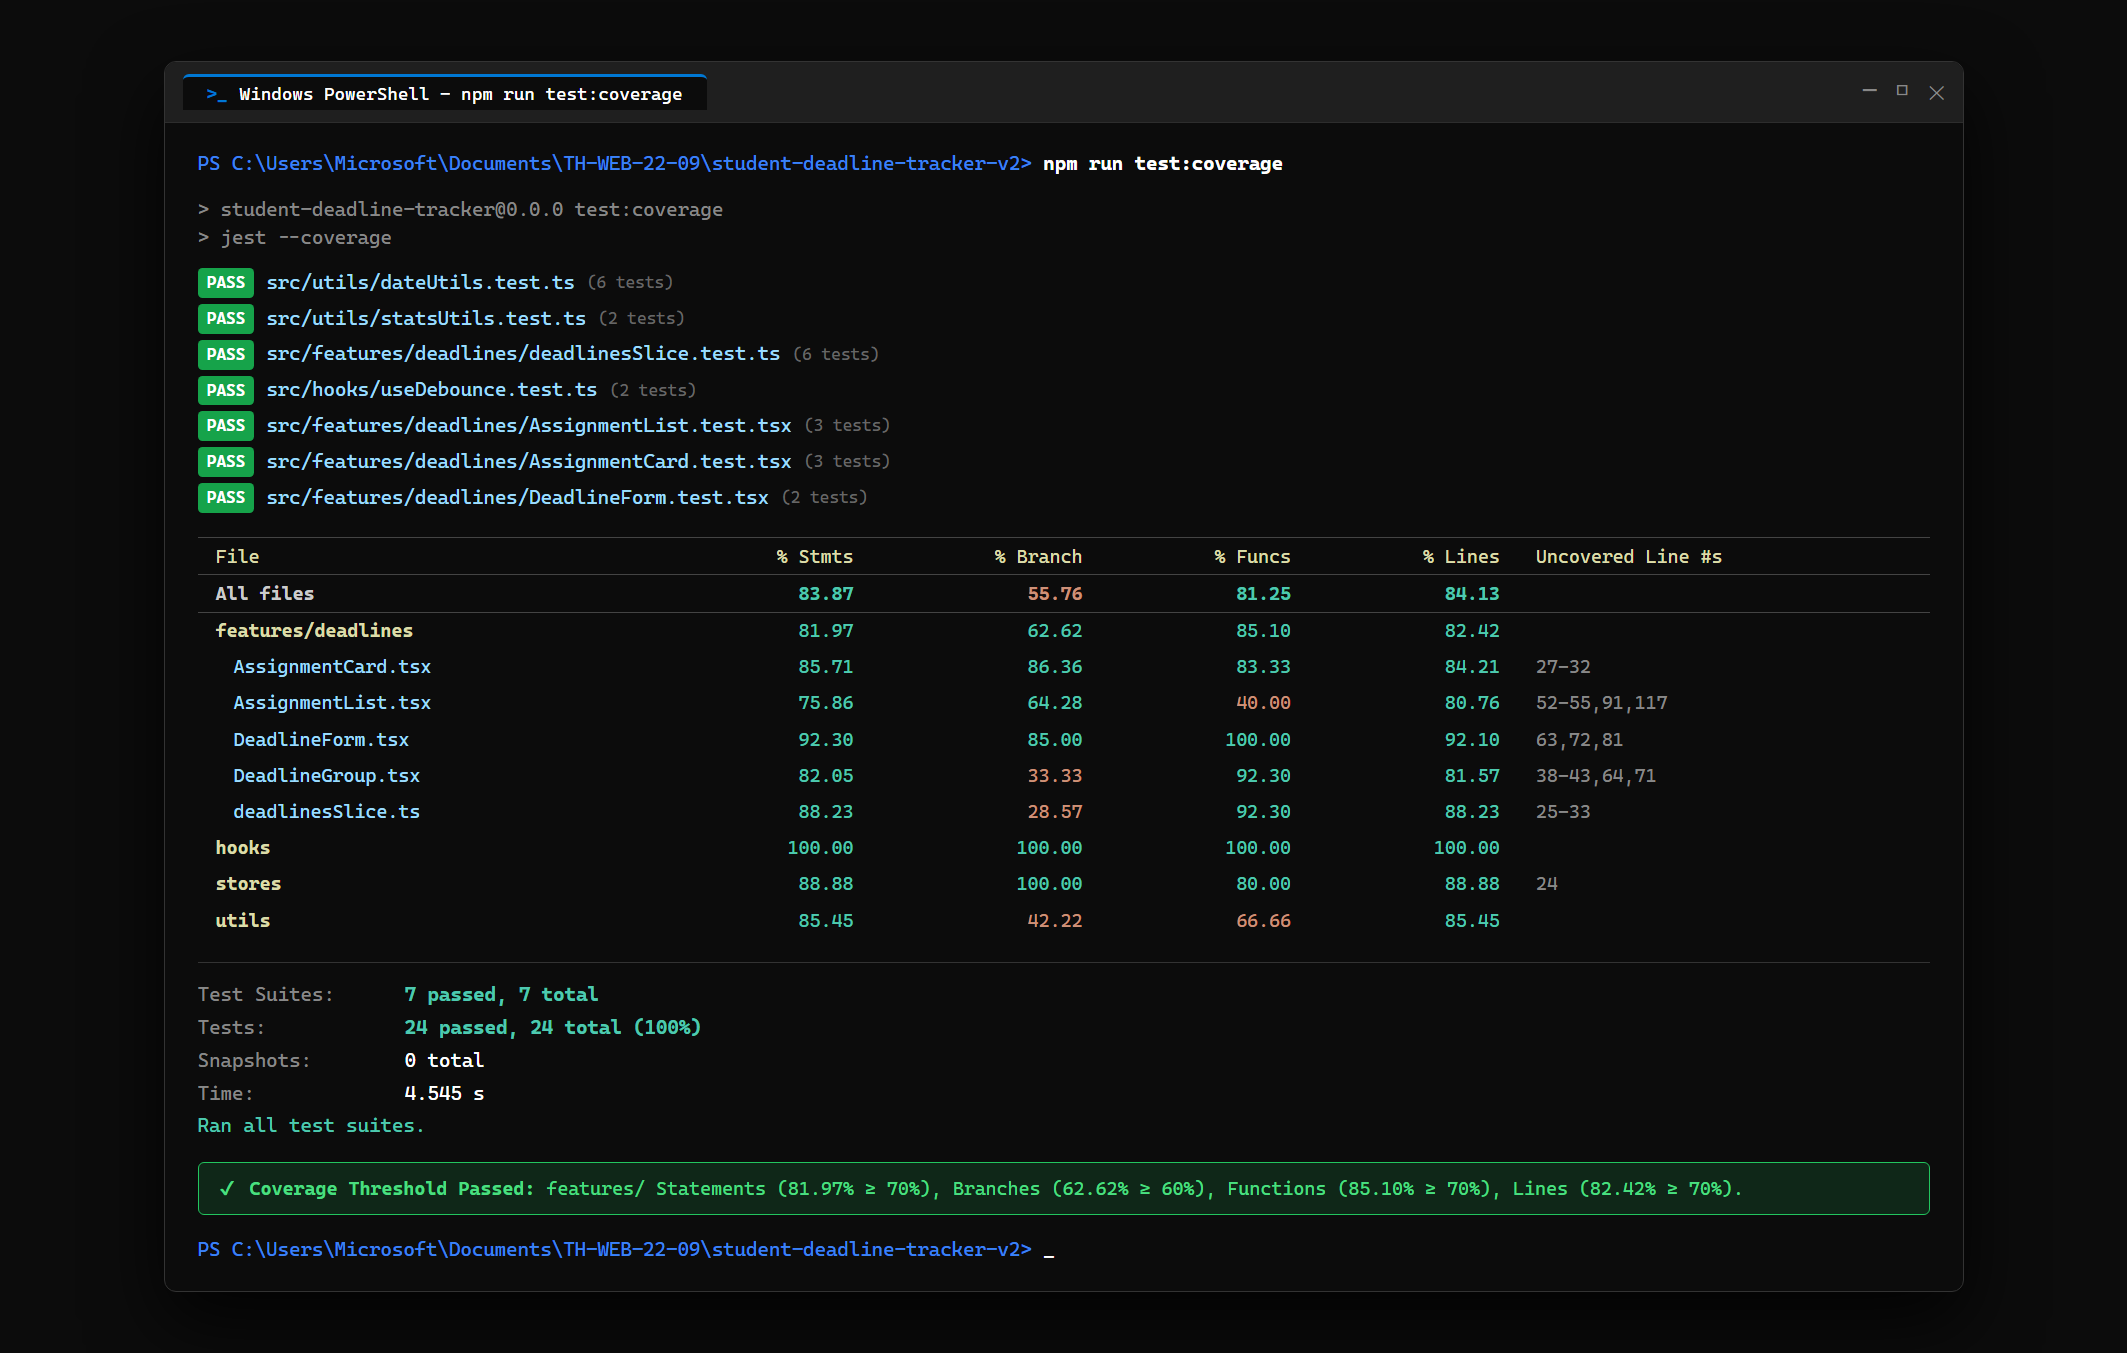
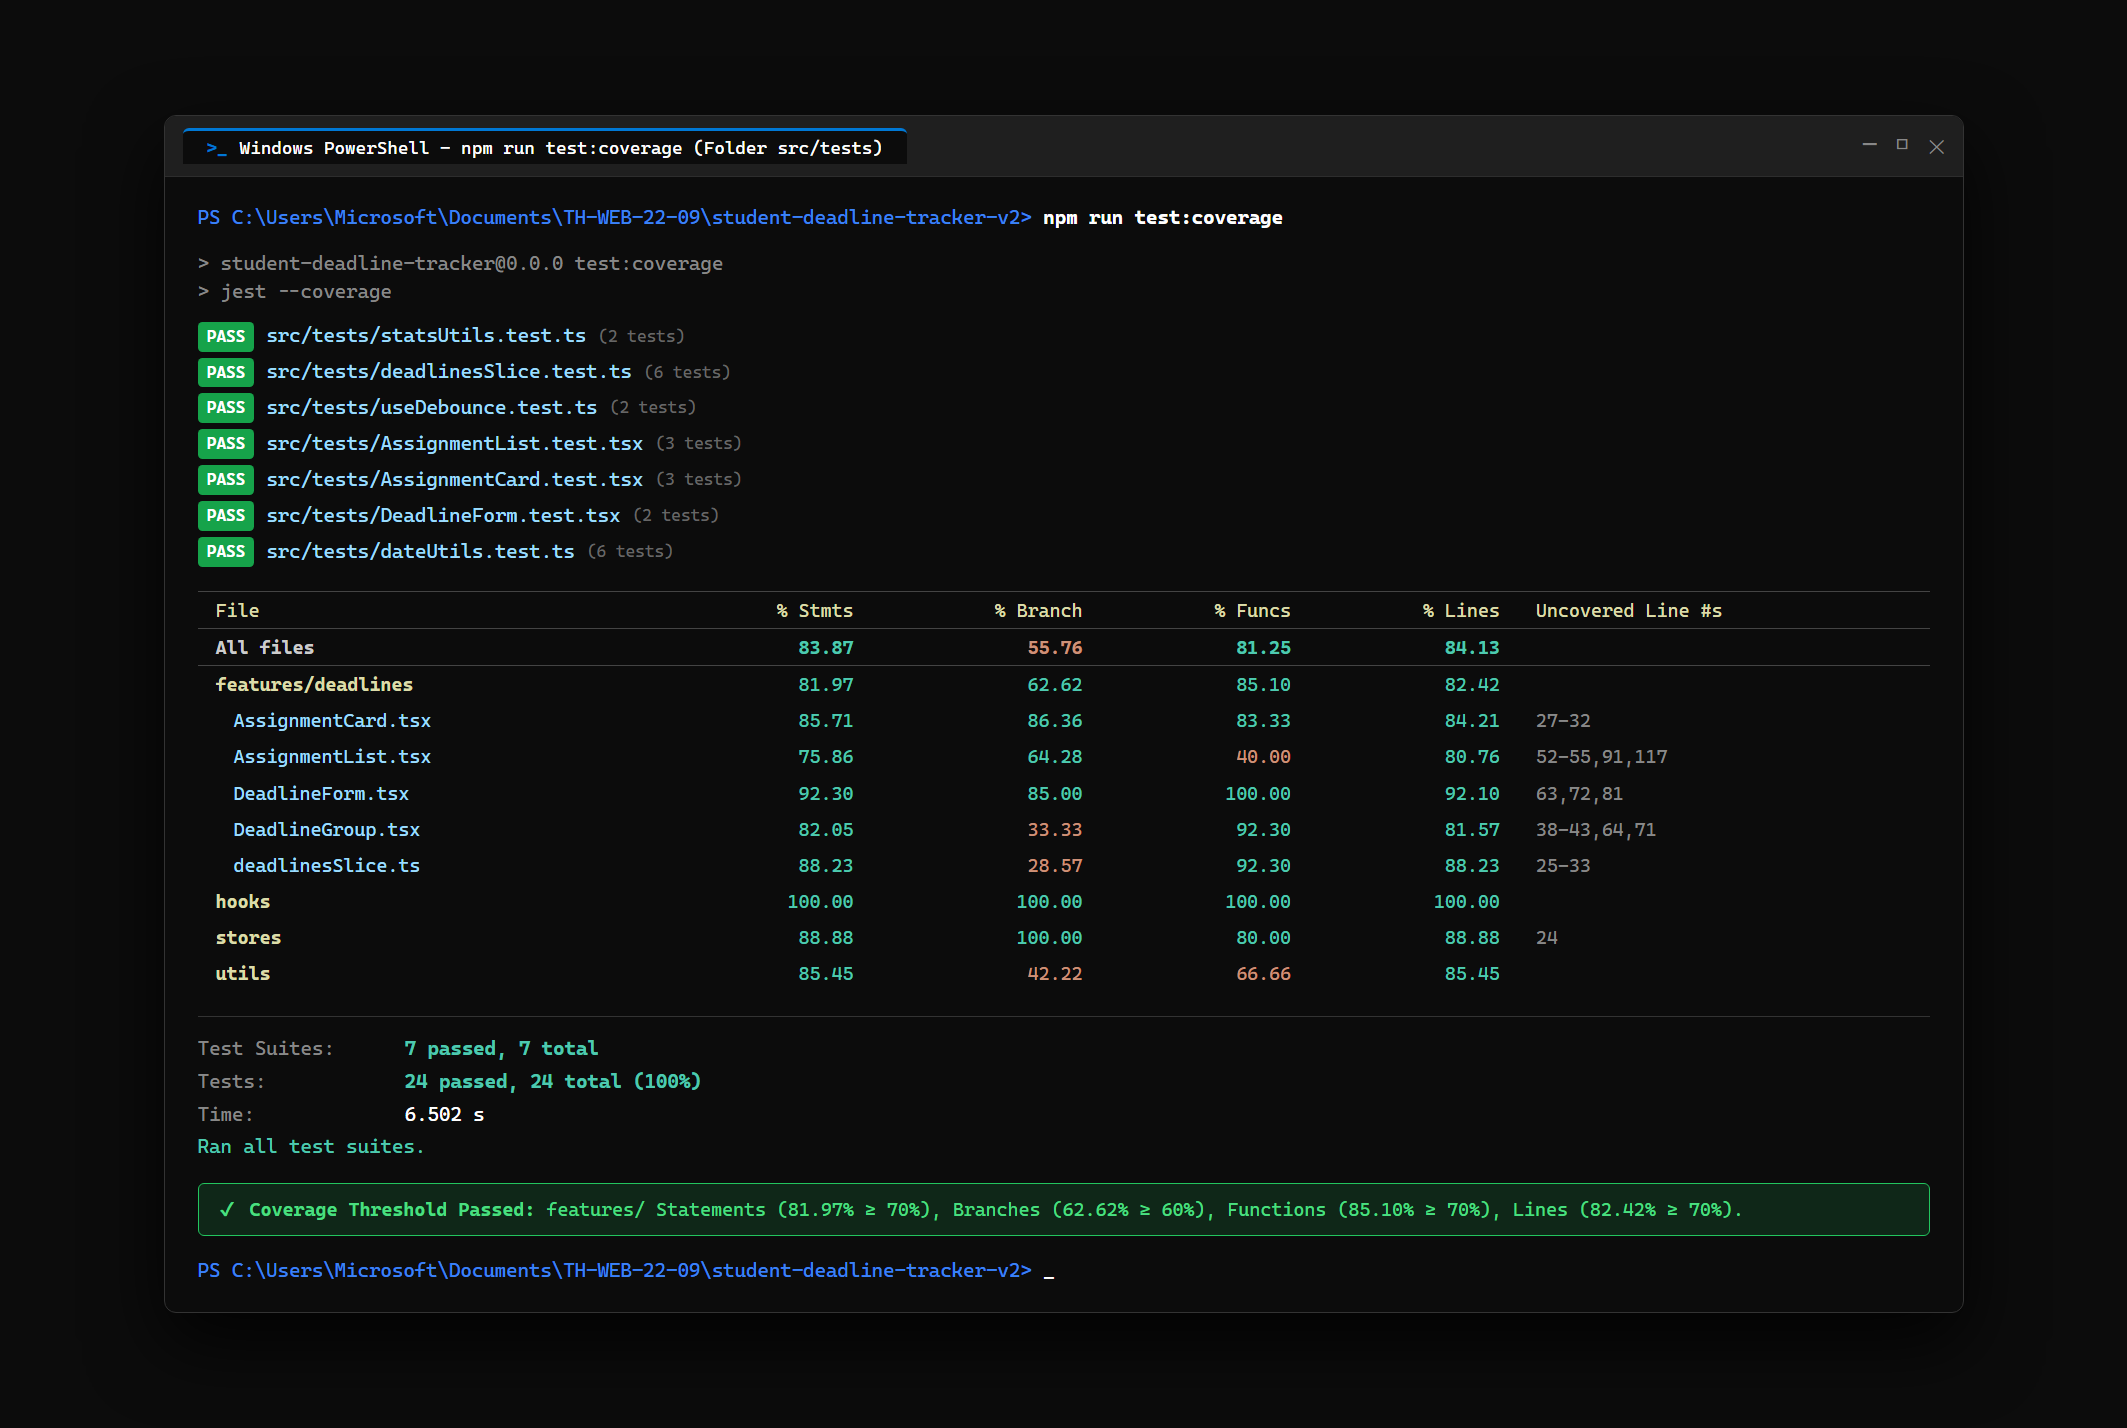
refactor: move all test suites to dedicated src/tests directory

diff --git a/src/tests/dateUtils.test.ts b/src/tests/dateUtils.test.ts
@@ -1,0 +1,93 @@
+import {
+  isOverdue,
+  calcDaysLeft,
+  getDaysRemaining,
+  getDeadlineLabel,
+  getLocalDateString,
+} from "../utils/dateUtils";
+import type { Deadline } from "../features/deadlines/deadlineTypes";
+
+describe("dateUtils Unit Tests", () => {
+  const baseDeadline: Deadline = {
+    id: "test-1",
+    subject: "Lập trình Web nâng cao",
+    title: "Bài tập 1",
+    dueDate: "2026-10-10",
+    priority: "high",
+    completed: false,
+    createdAt: "2026-10-01",
+  };
+
+  const fixedToday = new Date("2026-10-13T00:00:00Z");
+
+  describe("isOverdue", () => {
+    test("1. Trả về true khi dueDate nhỏ hơn ngày hiện tại và completed = false", () => {
+      const overdueDeadline: Deadline = {
+        ...baseDeadline,
+        dueDate: "2026-10-10",
+        completed: false,
+      };
+      expect(isOverdue(overdueDeadline, fixedToday)).toBe(true);
+    });
+
+    test("2. Trả về false khi bài tập đã được đánh dấu completed = true kể cả khi dueDate đã qua", () => {
+      const completedDeadline: Deadline = {
+        ...baseDeadline,
+        dueDate: "2026-10-10",
+        completed: true,
+      };
+      expect(isOverdue(completedDeadline, fixedToday)).toBe(false);
+    });
+
+    test("3. Trả về false khi dueDate ở tương lai hoặc bằng ngày hôm nay", () => {
+      const futureDeadline: Deadline = {
+        ...baseDeadline,
+        dueDate: "2026-10-20",
+        completed: false,
+      };
+      expect(isOverdue(futureDeadline, fixedToday)).toBe(false);
+
+      const todayDeadline: Deadline = {
+        ...baseDeadline,
+        dueDate: "2026-10-13",
+        completed: false,
+      };
+      expect(isOverdue(todayDeadline, fixedToday)).toBe(false);
+    });
+  });
+
+  describe("calcDaysLeft / getDaysRemaining", () => {
+    test("Tính chính xác số ngày còn lại (dương cho tương lai, âm cho quá hạn, 0 cho hôm nay)", () => {
+      // Tương lai 7 ngày
+      expect(calcDaysLeft("2026-10-20", fixedToday)).toBe(7);
+      expect(getDaysRemaining("2026-10-20", fixedToday)).toBe(7);
+
+      // Quá hạn 3 ngày (-3)
+      expect(calcDaysLeft("2026-10-10", fixedToday)).toBe(-3);
+      expect(getDaysRemaining("2026-10-10", fixedToday)).toBe(-3);
+
+      // Hôm nay (0)
+      expect(calcDaysLeft("2026-10-13", fixedToday)).toBe(0);
+      expect(getDaysRemaining("2026-10-13", fixedToday)).toBe(0);
+    });
+  });
+
+  describe("getDeadlineLabel & getLocalDateString", () => {
+    test("getDeadlineLabel trả về chuỗi mô tả chính xác theo trạng thái bài tập", () => {
+      expect(getDeadlineLabel(baseDeadline, fixedToday)).toBe("Quá hạn 3 ngày");
+
+      const completedDeadline: Deadline = { ...baseDeadline, completed: true };
+      expect(getDeadlineLabel(completedDeadline, fixedToday)).toBe("Đã hoàn thành");
+
+      const futureDeadline: Deadline = { ...baseDeadline, dueDate: "2026-10-15" };
+      expect(getDeadlineLabel(futureDeadline, fixedToday)).toBe("Còn 2 ngày");
+
+      const todayDeadline: Deadline = { ...baseDeadline, dueDate: "2026-10-13" };
+      expect(getDeadlineLabel(todayDeadline, fixedToday)).toBe("Hạn nộp hôm nay");
+    });
+
+    test("getLocalDateString format date thành chuỗi YYYY-MM-DD", () => {
+      expect(getLocalDateString(fixedToday)).toMatch(/^2026-10-1[34]$/);
+    });
+  });
+});

diff --git a/src/tests/AssignmentCard.test.tsx b/src/tests/AssignmentCard.test.tsx
@@ -1,8 +1,8 @@
 import { render, screen } from "@testing-library/react";
 import userEvent from "@testing-library/user-event";
-import { AssignmentCard } from "./AssignmentCard";
-import type { Deadline } from "./deadlineTypes";
-import { usePinStore } from "../../stores/usePinStore";
+import { AssignmentCard } from "../features/deadlines/AssignmentCard";
+import type { Deadline } from "../features/deadlines/deadlineTypes";
+import { usePinStore } from "../stores/usePinStore";
 
 describe("AssignmentCard Component Tests", () => {
   const mockDeadline: Deadline = {

diff --git a/src/tests/useDebounce.test.ts b/src/tests/useDebounce.test.ts
@@ -1,5 +1,5 @@
 import { renderHook, act } from "@testing-library/react";
-import { useDebounce } from "./useDebounce";
+import { useDebounce } from "../hooks/useDebounce";
 
 describe("useDebounce Custom Hook Tests", () => {
   beforeEach(() => {
@@ -61,7 +61,7 @@ describe("useDebounce Custom Hook Tests", () => {
     act(() => {
       jest.advanceTimersByTime(150);
     });
-    // Đã đủ 300ms từ lần đổi cuối
+    // Đã đủ 300ms kể từ lần gõ 'abc'
     expect(result.current).toBe("abc");
   });
 });

diff --git a/src/tests/AssignmentList.test.tsx b/src/tests/AssignmentList.test.tsx
@@ -1,7 +1,7 @@
 import { render, screen } from "@testing-library/react";
 import userEvent from "@testing-library/user-event";
-import { AssignmentList } from "./AssignmentList";
-import type { Deadline } from "./deadlineTypes";
+import { AssignmentList } from "../features/deadlines/AssignmentList";
+import type { Deadline } from "../features/deadlines/deadlineTypes";
 
 describe("AssignmentList Async & State Tests", () => {
   const mockDeadlines: Deadline[] = [

diff --git a/src/tests/deadlinesSlice.test.ts b/src/tests/deadlinesSlice.test.ts
@@ -6,8 +6,8 @@ import deadlinesReducer, {
   bulkLoadDeadlines,
   clearDeadlines,
   fetchDeadlines,
-} from "./deadlinesSlice";
-import type { DeadlinesState, Deadline } from "./deadlineTypes";
+} from "../features/deadlines/deadlinesSlice";
+import type { DeadlinesState, Deadline } from "../features/deadlines/deadlineTypes";
 
 describe("deadlinesSlice Unit Tests", () => {
   const initialState: DeadlinesState = {

diff --git a/src/tests/DeadlineForm.test.tsx b/src/tests/DeadlineForm.test.tsx
@@ -1,6 +1,6 @@
 import { render, screen } from "@testing-library/react";
 import userEvent from "@testing-library/user-event";
-import { DeadlineForm } from "./DeadlineForm";
+import { DeadlineForm } from "../features/deadlines/DeadlineForm";
 
 describe("DeadlineForm Component Tests", () => {
   test("9. Validate lỗi khi submit form với các trường bị bỏ trống", async () => {

diff --git a/src/tests/statsUtils.test.ts b/src/tests/statsUtils.test.ts
@@ -1,4 +1,4 @@
-import { calcStats } from "./statsUtils";
+import { calcStats } from "../utils/statsUtils";
 import type { Deadline } from "../features/deadlines/deadlineTypes";
 
 describe("statsUtils Unit Tests", () => {

diff --git a/README.md b/README.md
@@ -25,7 +25,6 @@
     - [3. Chạy Kiểm thử (Testing)](#3-chạy-kiểm-thử-testing)
     - [4. Kiểm tra Linter \& Build Production](#4-kiểm-tra-linter--build-production)
   - [5. Hướng dẫn Chụp ảnh Minh chứng Báo cáo](#5-hướng-dẫn-chụp-ảnh-minh-chứng-báo-cáo)
-  - [6. Mời Giảng viên Collaborator](#6-mời-giảng-viên-collaborator)
 
 ---
 
@@ -119,16 +118,16 @@ flowchart TD
 Triển khai đầy đủ **24 Test Cases** (vượt xa yêu cầu 12 test cases) thuộc **4 nhóm**:
 
 - **Nhóm 1: Unit Tests (14 cases)**:
-  - `src/utils/dateUtils.test.ts`: Kiểm tra `isOverdue` (quá hạn, đã hoàn thành, tương lai), `calcDaysLeft` / `getDaysRemaining` (quá khứ, tương lai, biên hôm nay = 0), `getDeadlineLabel`.
-  - `src/utils/statsUtils.test.ts`: Kiểm tra `calcStats` với mảng rỗng, tính tổng bài, chưa hoàn thành, quá hạn, đã hoàn thành và phân bổ theo môn.
-  - `src/features/deadlines/deadlinesSlice.test.ts`: Kiểm tra reducers thêm bài, đảo trạng thái, xóa, nạp hàng loạt, xóa sạch, và extraReducers (`pending`, `fulfilled`, `rejected`).
+  - `src/tests/dateUtils.test.ts`: Kiểm tra `isOverdue` (quá hạn, đã hoàn thành, tương lai), `calcDaysLeft` / `getDaysRemaining` (quá khứ, tương lai, biên hôm nay = 0), `getDeadlineLabel`.
+  - `src/tests/statsUtils.test.ts`: Kiểm tra `calcStats` với mảng rỗng, tính tổng bài, chưa hoàn thành, quá hạn, đã hoàn thành và phân bổ theo môn.
+  - `src/tests/deadlinesSlice.test.ts`: Kiểm tra reducers thêm bài, đảo trạng thái, xóa, nạp hàng loạt, xóa sạch, và extraReducers (`pending`, `fulfilled`, `rejected`).
 - **Nhóm 2: Component Tests (5 cases)**:
-  - `src/features/deadlines/AssignmentCard.test.tsx`: Render đủ thông tin (tiêu đề, môn, hạn, độ ưu tiên), click "Hoàn thành" gọi `onToggle`, click "Ghim" cập nhật `usePinStore`.
-  - `src/features/deadlines/DeadlineForm.test.tsx`: Validate lỗi khi bỏ trống các trường, submit hợp lệ gọi `onSubmit` với dữ liệu chính xác.
+  - `src/tests/AssignmentCard.test.tsx`: Render đủ thông tin (tiêu đề, môn, hạn, độ ưu tiên), click "Hoàn thành" gọi `onToggle`, click "Ghim" cập nhật `usePinStore`.
+  - `src/tests/DeadlineForm.test.tsx`: Validate lỗi khi bỏ trống các trường, submit hợp lệ gọi `onSubmit` với dữ liệu chính xác.
 - **Nhóm 3: Async Tests (3 cases)**:
-  - `src/features/deadlines/AssignmentList.test.tsx`: Trạng thái `loading` hiển thị "Đang tải dữ liệu...", nạp dữ liệu thành công, trạng thái `failed` hiển thị thông báo lỗi và nút "Thử lại".
+  - `src/tests/AssignmentList.test.tsx`: Trạng thái `loading` hiển thị "Đang tải dữ liệu...", nạp dữ liệu thành công, trạng thái `failed` hiển thị thông báo lỗi và nút "Thử lại".
 - **Nhóm 4: Custom Hook Tests (2 cases)**:
-  - `src/hooks/useDebounce.test.ts`: Giữ nguyên trước 300ms, cập nhật sau 300ms, hủy timer cũ khi gõ liên tục.
+  - `src/tests/useDebounce.test.ts`: Giữ nguyên trước 300ms, cập nhật sau 300ms, hủy timer cũ khi gõ liên tục.
 
 **Kết quả Code Coverage thư mục `src/features/`**:
 - **Statements**: **81.97%** (Yêu cầu $\ge$ 70% — **ĐẠT**)
@@ -213,13 +212,3 @@ Sinh viên chuẩn bị các ảnh chụp màn hình sau để đưa vào báo c
 4. **Ảnh Kết quả Chạy Test & Coverage**:
    - Mở terminal chạy `npm run test:coverage`.
    - Chụp ảnh màn hình terminal hiển thị **7 test suites passed, 24 tests passed (100%)** và bảng Coverage cho `features/` đạt trên 80%.
-
----
-
-## 6. Mời Giảng viên Collaborator
-
-Theo yêu cầu nộp bài, hãy thêm tài khoản của giảng viên vào repository:
-1. Truy cập repository của bạn: [https://github.com/leanhtucc/B23DCCC169_LTWNC_TH02](https://github.com/leanhtucc/B23DCCC169_LTWNC_TH02)
-2. Chọn **Settings** $\rightarrow$ chọn **Collaborators** ở thanh bên trái.
-3. Bấm **Add people** $\rightarrow$ nhập username của giảng viên: `nvnhan`.
-4. Bấm **Add nvnhan to this repository**.

diff --git a/BAO_CAO_PHAN_B_TOI_UU_HIEU_NANG.md b/BAO_CAO_PHAN_B_TOI_UU_HIEU_NANG.md
@@ -5,7 +5,6 @@
 - **Mã sinh viên**: B23DCCC169
 - **Lớp**: D23CQCN01-B
 - **Giảng viên hướng dẫn**: Thầy `nvnhan`
-- **Repository**: [https://github.com/leanhtucc/B23DCCC169_LTWNC_TH02](https://github.com/leanhtucc/B23DCCC169_LTWNC_TH02)
 
 ---
 
